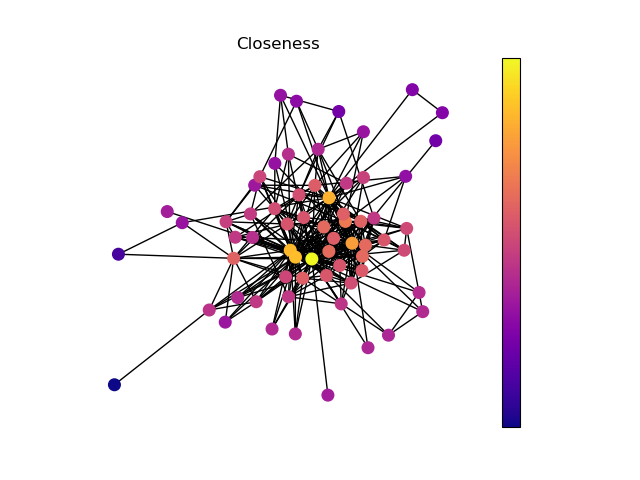
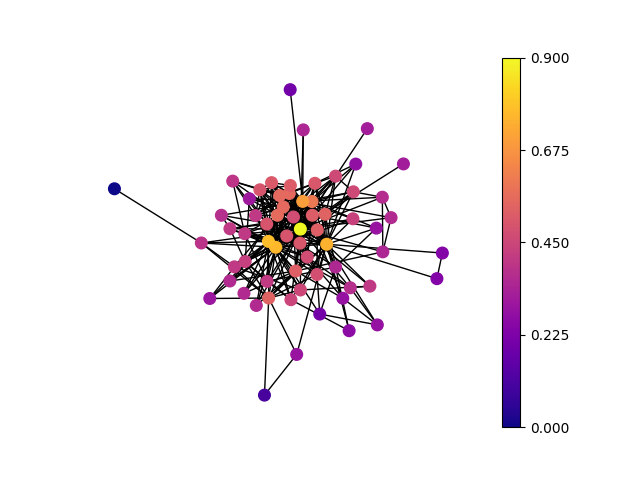
heatmap

diff --git a/NetworkX.py b/NetworkX.py
@@ -1,11 +1,11 @@
 import math
-
-import matplotlib
 import pandas as pd
 import networkx as nx
+import matplotlib as mpl
 import matplotlib.pyplot as plt
 import matplotlib.colors as mcolors
 import seaborn as sns
+import numpy as np
 
 def description(graph):
     print('\x1B[1m' + "Numero di nodi: " + '\x1B[0m' + f"{len(graph.nodes)}")
@@ -62,15 +62,15 @@ def plot_centrality_by_key(centrality_type, graph):
     centrality_df["keys"] = centrality_df["keys"].replace(mapping, regex=True)
     plot_order = centrality_df.groupby('keys')['values'].sum().sort_values(ascending=False).index.values
 
-    plt.figure(figsize=(18, 8))
+    plt.figure(figsize=(10, 6))
     sns.barplot(x=centrality_df["keys"].tolist(), y=centrality_df["values"].tolist(), order=plot_order)
-    plt.xticks(rotation=80, fontsize=9)
-    plt.xlabel("Characters", fontsize=25)
-    plt.ylabel("Centrality", fontsize=25)
+    plt.xticks(rotation=80, fontsize=8)
+    plt.xlabel("Characters", fontsize=12)
+    plt.ylabel("Centrality", fontsize=12)
+    plt.title(centrality_type + " Centrality", fontsize=15)
+    #plt.tight_layout()
     plt.savefig("grafici/" + centrality_type + ".png")
-    plt.title(centrality_type + " Centrality", fontsize=36)
-    plt.tight_layout()
-    plt.show()
+    #plt.show()
 
 def plot_centrality_distribution(centrality_type, graph):
     centrality = nx.betweenness_centrality(graph)
@@ -81,36 +81,49 @@ def plot_centrality_distribution(centrality_type, graph):
     elif (centrality_type == "Eigenvector"):
         centrality = nx.eigenvector_centrality(graph)
 
-    plt.figure(figsize=(18, 8))
-    sns.histplot(list(centrality.values()), kde=True)
-    plt.savefig("grafici/" + centrality_type + "_distribution.png")
-    plt.xticks(rotation=80, fontsize=9)
-    plt.xlabel("Characters", fontsize=25)
-    plt.ylabel("Centrality", fontsize=25)
-    plt.title(centrality_type + " Centrality Distribution", fontsize=36)
-    plt.show()
+    n = len(list(centrality.values()))
+    bin_width = 3.5 * np.std(list(centrality.values())) / (n ** (1 / 3))
+    numero_bin = int((max(list(centrality.values())) - min(list(centrality.values()))) / bin_width)*3
 
-def draw(G, pos, measure_name):
-    measures = nx.degree_centrality(graph)
-    if (measure_name == "Closeness"):
+    plt.figure(figsize=(12, 5))
+    sns.histplot(list(centrality.values()), kde=True, bins=numero_bin)
+    plt.xticks(rotation=80, fontsize=8)
+    plt.xlabel("Characters", fontsize=11)
+    plt.ylabel("Centrality", fontsize=11)
+    plt.title(centrality_type + " Centrality Distribution", fontsize=14)
+    plt.savefig("grafici/" + centrality_type + "_distribution.png")
+    #plt.show()
+
+def draw(G, pos, measure_name, max):
+    measure = None
+    if measure_name == "Betweenness":
+        measures = nx.betweenness_centrality(graph)
+    if measure_name == "Closeness":
         measures = nx.closeness_centrality(graph)
-    elif (measure_name == "Degree"):
+    elif measure_name == "Degree":
         measures = nx.degree_centrality(graph)
-    elif (measure_name == "Eigenvector"):
+    elif measure_name == "Eigenvector":
         measures = nx.eigenvector_centrality(graph)
 
-    nodes = nx.draw_networkx_nodes(G, pos, node_size=70, cmap=plt.cm.plasma,
-                                   node_color=list(measures.values()),
-                                   nodelist=measures.keys())
-    nodes.set_norm(mcolors.SymLogNorm(linthresh=0.01, linscale=1))
+    centrality_values = [measures[node] for node in G.nodes]
 
-    # labels = nx.draw_networkx_labels(G, pos)
-    edges = nx.draw_networkx_edges(G, pos)
+    # Disegnare il grafo con i nodi colorati in base alla centralità
+    nodes = nx.draw_networkx_nodes(G, pos, node_size=70, node_color=centrality_values, cmap=plt.cm.plasma)
+    nodes.set_norm(mcolors.SymLogNorm(linthresh=0.1, linscale=1))
+    nx.draw_networkx_edges(graph, pos)
 
-    plt.title(measure_name)
-    plt.colorbar(nodes)
+    N = 5
+    cmap = plt.get_cmap(plt.cm.plasma, N)
+    norm = mpl.colors.Normalize(vmin=0, vmax=max)
+
+    # creating ScalarMappable
+    sm = mpl.cm.ScalarMappable(cmap=cmap, norm=norm)
+    sm.set_array([])
+
+    plt.colorbar(sm, ticks=np.linspace(0, max, N), ax=plt.gca())
+
     plt.axis('off')
-    plt.savefig("grafici/heatmap_" + measure_name)
+    plt.savefig("grafici/heatmap_" + measure_name + ".png")
     plt.show()
 
 characters = pd.read_csv("data/characters.csv")
@@ -120,6 +133,7 @@ edges = pd.read_csv("data/relations.csv")
 
 edges["type"] = edges["type"].replace("+", 1).replace("-", -1)
 
+type = edges["type"].tolist()
 source_list = edges["source"].tolist()
 target_list = edges["target"].tolist()
 
@@ -131,27 +145,31 @@ graph = nx.Graph()
 graph.add_edges_from(edges_list)
 
 description(graph)
-
+'''
 draw_network(nx.spring_layout(graph, k=16/math.sqrt(graph.order())), "spring", edges["type"])
-'''draw_network(nx.kamada_kawai_layout(graph), "kamada", edges["type"])
+draw_network(nx.kamada_kawai_layout(graph), "kamada", edges["type"])
 draw_network(nx.random_layout(graph), "random", edges["type"])
 draw_network(nx.shell_layout(graph), "shell", edges["type"])
-draw_network(nx.spiral_layout(graph), "spiral", edges["type"])'''
+draw_network(nx.spiral_layout(graph), "spiral", edges["type"])
+'''
 
 
 '''plot_centrality_by_key("Betweeness", graph)
 plot_centrality_by_key("Closeness", graph)
 plot_centrality_by_key("Degree", graph)
 plot_centrality_by_key("Eigenvector", graph)
-
-plot_centrality_distribution("Betweeness", graph)
+'''
+'''
+plot_centrality_distribution("Betweenness", graph)
 plot_centrality_distribution("Closeness", graph)
 plot_centrality_distribution("Degree", graph)
-plot_centrality_distribution("Eigenvector", graph)'''
-
-'''draw(graph, nx.spring_layout(graph), 'Betweeness')
-draw(graph, nx.spring_layout(graph), 'Closeness')
-draw(graph, nx.spring_layout(graph), 'Degree')
-draw(graph, nx.spring_layout(graph), 'Eigenvector')'''
-
+plot_centrality_distribution("Eigenvector", graph)
+'''
+'''
+draw(graph, nx.spring_layout(graph), 'Betweenness', 0.30)
+draw(graph, nx.spring_layout(graph), 'Closeness', 0.90)
+draw(graph, nx.spring_layout(graph), 'Degree', 0.80)
+draw(graph, nx.spring_layout(graph), 'Eigenvector', 0.40)
+'''
+draw(graph, nx.spring_layout(graph), 'Eigenvector', 0.35)
 
